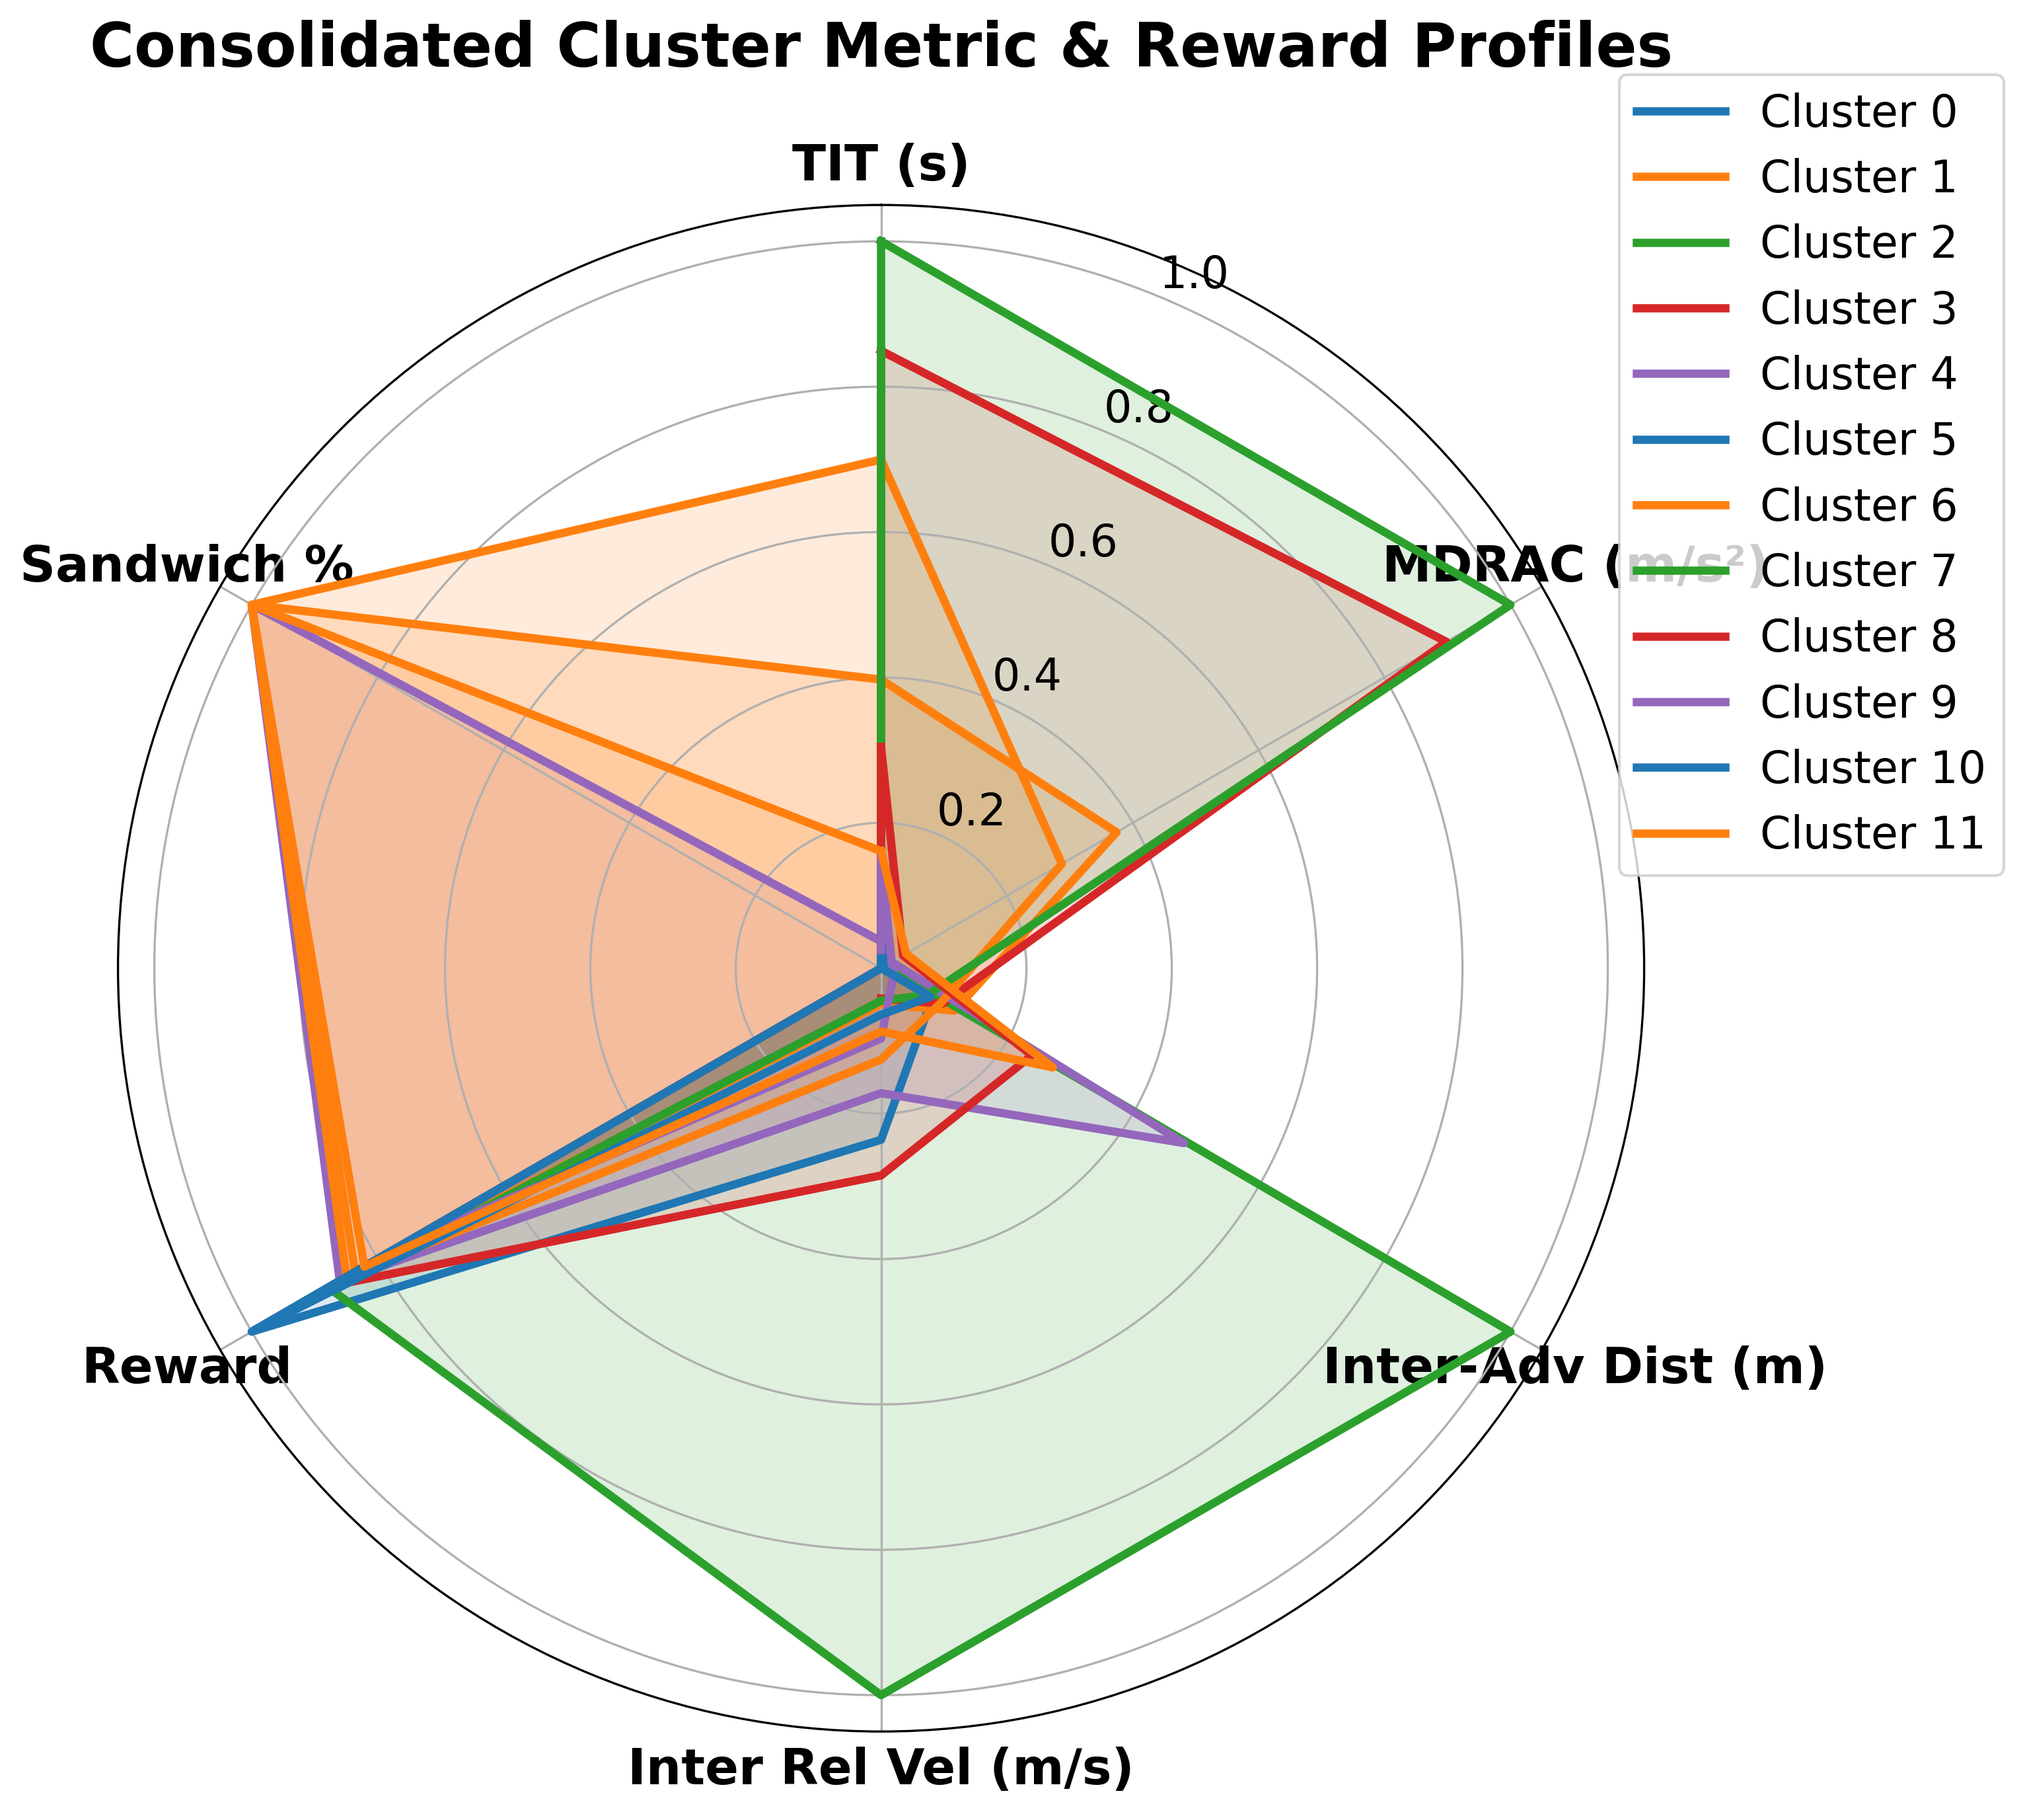
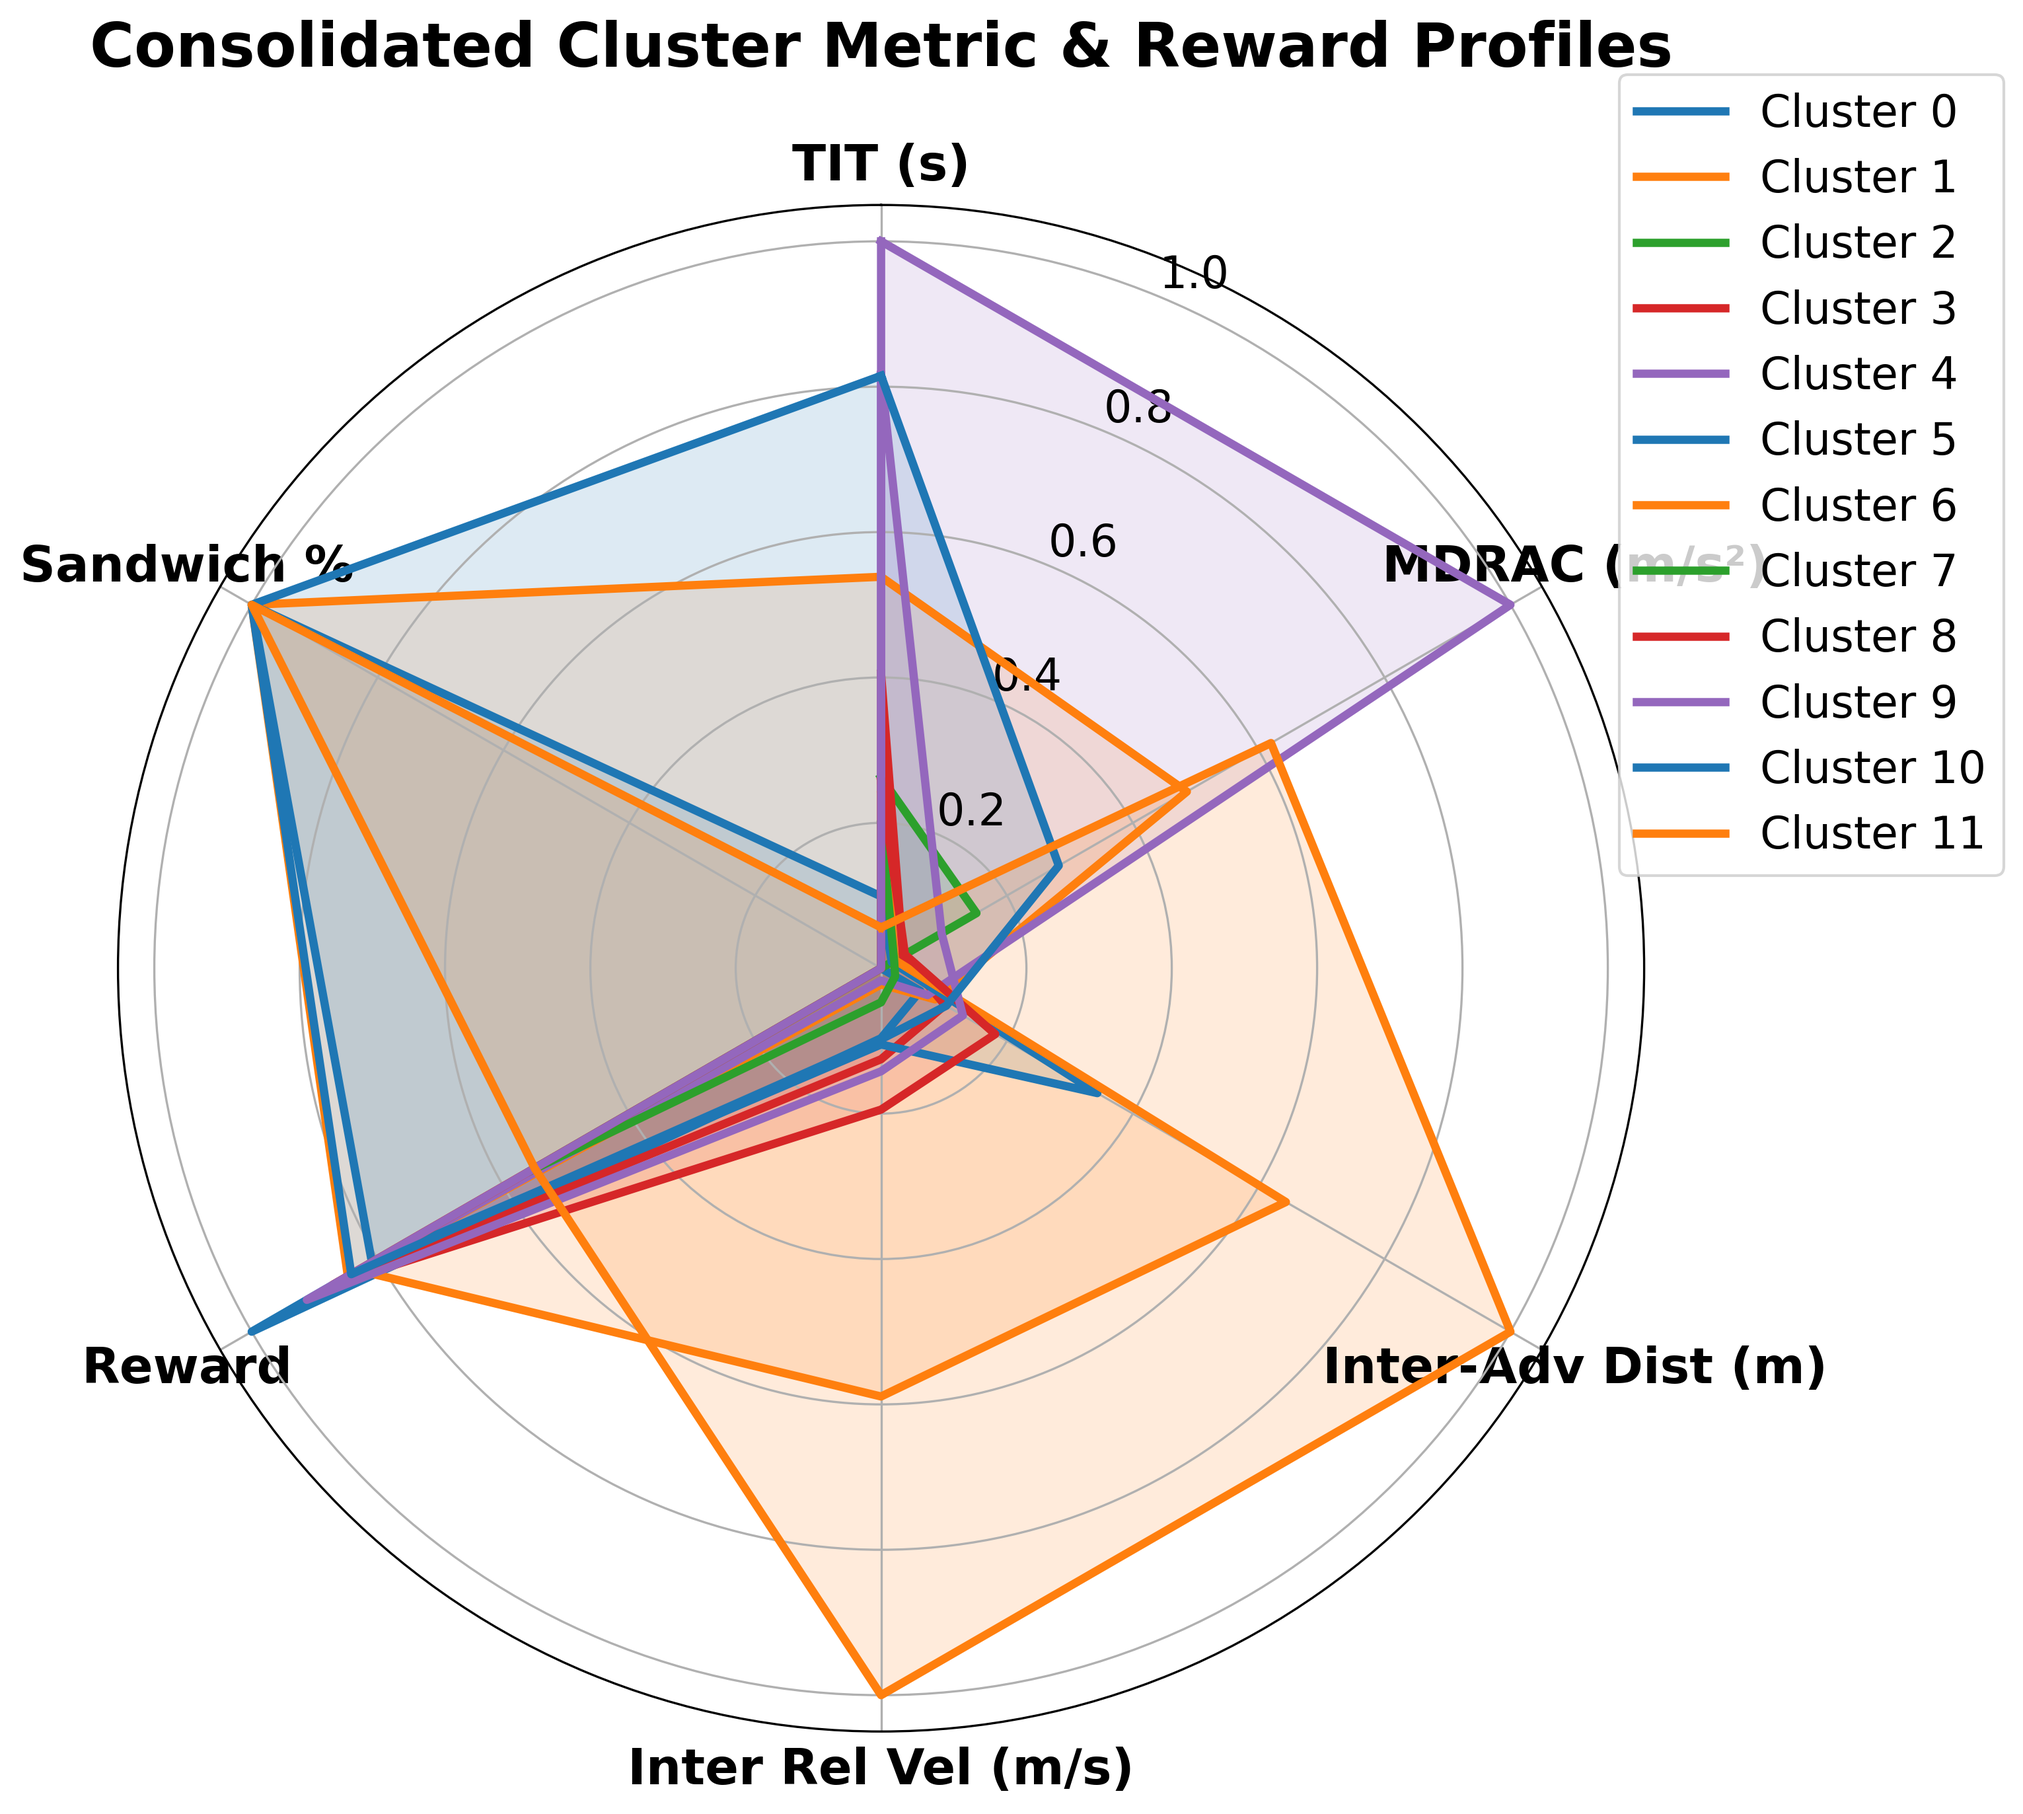
New DTW figures

diff --git a/main-risk-analysis.py b/main-risk-analysis.py
@@ -394,29 +394,77 @@ def plot_cluster_spider_plot(df, n_clusters=3):
     plt.close()
     print(f"Saved: {filepath}")
 
-def plot_dtw_trajectory_heatmap(df):
-    """Computes and plots Dynamic Time Warping (DTW) distance heatmap across scenarios."""
-    num_samples = min(20, len(df))
-    sample_df = df.iloc[:num_samples].reset_index(drop=True)
-    dtw_matrix = np.zeros((num_samples, num_samples))
+def plot_behavior_dtw_heatmaps(df):
+    """Computes and plots separate DTW distance heatmaps for specific meta-behavior groups."""
     
-    for i in range(num_samples):
-        for j in range(num_samples):
-            dist1 = calculate_dtw_distance(sample_df.loc[i, 'adv1_traj'], sample_df.loc[j, 'adv1_traj'])
-            dist2 = calculate_dtw_distance(sample_df.loc[i, 'adv2_traj'], sample_df.loc[j, 'adv2_traj'])
-            dtw_matrix[i, j] = dist1 + dist2
+    # Define the meta-behaviors and their corresponding clusters
+    behavior_groups = {
+        # "Cruise_Blocking": [4],# [4, 8, 11],
+        # "Walling": [3,7],#[1, 3, 7],
+        # "Intentional_Fratricide": [9],
+        # "Sandwiching": [6],#[5, 6, 10]
+        "Cruise_Blocking_11": [11],
+        "Cruise_Blocking_4": [4],
+        "Cruise_Blocking_8": [8],
+        "Walling_3": [3],
+        "Walling_1": [1],
+        "Walling_7": [7],
+        "Intentional_Fratricide_9": [9],
+        "Sandwiching_6": [6],
+        "Sandwiching_5": [5],
+        "Sandwiching_10": [10]
+    }
+    
+    for behavior_name, clusters in behavior_groups.items():
+        # Filter the dataframe for the specific clusters in this behavior
+        behavior_df = df[df['cluster'].isin(clusters)].reset_index(drop=True)
+        
+        num_samples = len(behavior_df)
+        if num_samples == 0:
+            print(f"Skipping {behavior_name.replace('_', ' ')}: No valid scenarios found in these clusters.")
+            continue
             
-    plt.figure(figsize=(10, 8))
-    im = plt.imshow(dtw_matrix, cmap='viridis', origin='upper')
-    plt.colorbar(im, label='DTW Trajectory Distance')
-    plt.title("DTW Trajectory Diversity Matrix", fontweight='bold')
-    plt.xlabel("Scenario Index")
-    plt.ylabel("Scenario Index")
-    
-    filepath = os.path.join(OUTPUT_DIR, "dtw_heatmap.png")
-    plt.savefig(filepath, dpi=300, bbox_inches='tight')
-    plt.close()
-    print(f"Saved: {filepath}")
+        # Cap the number of samples to prevent extremely long computation times
+        num_samples = min(30, num_samples)
+        sample_df = behavior_df.iloc[:num_samples]
+        
+        dtw_matrix = np.zeros((num_samples, num_samples))
+
+        
+        
+        print(f"Calculating DTW for {behavior_name.replace('_', ' ')} (n={num_samples})...")
+        for i in range(num_samples):
+            for j in range(num_samples):
+                dist1 = calculate_dtw_distance(sample_df.loc[i, 'adv1_traj'], sample_df.loc[j, 'adv1_traj'])
+                dist2 = calculate_dtw_distance(sample_df.loc[i, 'adv2_traj'], sample_df.loc[j, 'adv2_traj'])
+                dtw_matrix[i, j] = dist1 + dist2
+
+        # Extract the upper triangle of the matrix, excluding the diagonal (k=1)
+        upper_triangle_indices = np.triu_indices_from(dtw_matrix, k=1)
+        pairwise_distances = dtw_matrix[upper_triangle_indices]
+        
+        if len(pairwise_distances) > 0:
+            mean_dtw = np.mean(pairwise_distances)
+            std_dtw = np.std(pairwise_distances)
+            max_dtw = np.max(pairwise_distances)
+            
+            print(f"--- Diversity Metrics for {behavior_name} ---")
+            print(f"Mean Pairwise DTW: {mean_dtw:.2f}")
+            print(f"Std Dev of DTW:    {std_dtw:.2f}")
+            print(f"Max DTW Distance:  {max_dtw:.2f}\n")
+                
+        # Generate and save the heatmap
+        plt.figure(figsize=(10, 8))
+        im = plt.imshow(dtw_matrix, cmap='viridis', origin='upper')
+        plt.colorbar(im, label='DTW Trajectory Distance')
+        plt.title(f"Intra-Class Diversity: {behavior_name.replace('_', ' ')}", fontweight='bold')
+        plt.xlabel("Scenario Index")
+        plt.ylabel("Scenario Index")
+        
+        filepath = os.path.join(OUTPUT_DIR, f"dtw_heatmap_{behavior_name.lower()}.png")
+        plt.savefig(filepath, dpi=300, bbox_inches='tight')
+        plt.close()
+        print(f"Saved: {filepath}")
 
 def plot_statistical_bar_charts(df, n_clusters=3):
     """Plots comparative bar charts for TIT, MDRAC, Jerk, and Rewards per cluster."""
@@ -509,19 +557,11 @@ if __name__ == "__main__":
     original_count = len(df)
 
     # Keep only the rows where 'max_acc' is physically plausible (under 10 m/s^2)
-    df = df[df['max_acc'] <= 10.0].copy() 
+    #df = df[df['max_acc'] <= 10.0].copy() 
     
     filtered_count = len(df)
     print(f"\n[Physics Filter Applied] Removed {original_count - filtered_count} physically impossible scenarios (Acceleration > 10.0 m/s²).")
     
-    # # Keep only the rows where 'max_jerk' is strictly less than 5.0
-    # df = df[df['max_jerk'] < 5.0].copy() 
-    
-    # filtered_count = len(df)
-    # print(f"\n[Physics Filter Applied] Removed {original_count - filtered_count} physically impossible scenarios (Jerk >= 5.0 m/s³).")
-    # print(f"Remaining plausible scenarios for analysis: {filtered_count}")
-    # ----------------------
-
     # 2. Run K-Means and ANOVA / Tukey Tests
     N_CLUSTERS = 12
     
@@ -536,7 +576,10 @@ if __name__ == "__main__":
         print("\nGenerating slide-ready figures...")
         plot_climax_scatter(df, n_clusters=N_CLUSTERS)
         plot_cluster_spider_plot(df, n_clusters=N_CLUSTERS)
-        plot_dtw_trajectory_heatmap(df)
+        
+        # Call the newly created behavior-specific DTW mapping function
+        plot_behavior_dtw_heatmaps(df) 
+        
         plot_statistical_bar_charts(df, n_clusters=N_CLUSTERS)
         
         print(f"\nAll analyses complete! Check the '{OUTPUT_DIR}' directory for figures.")
